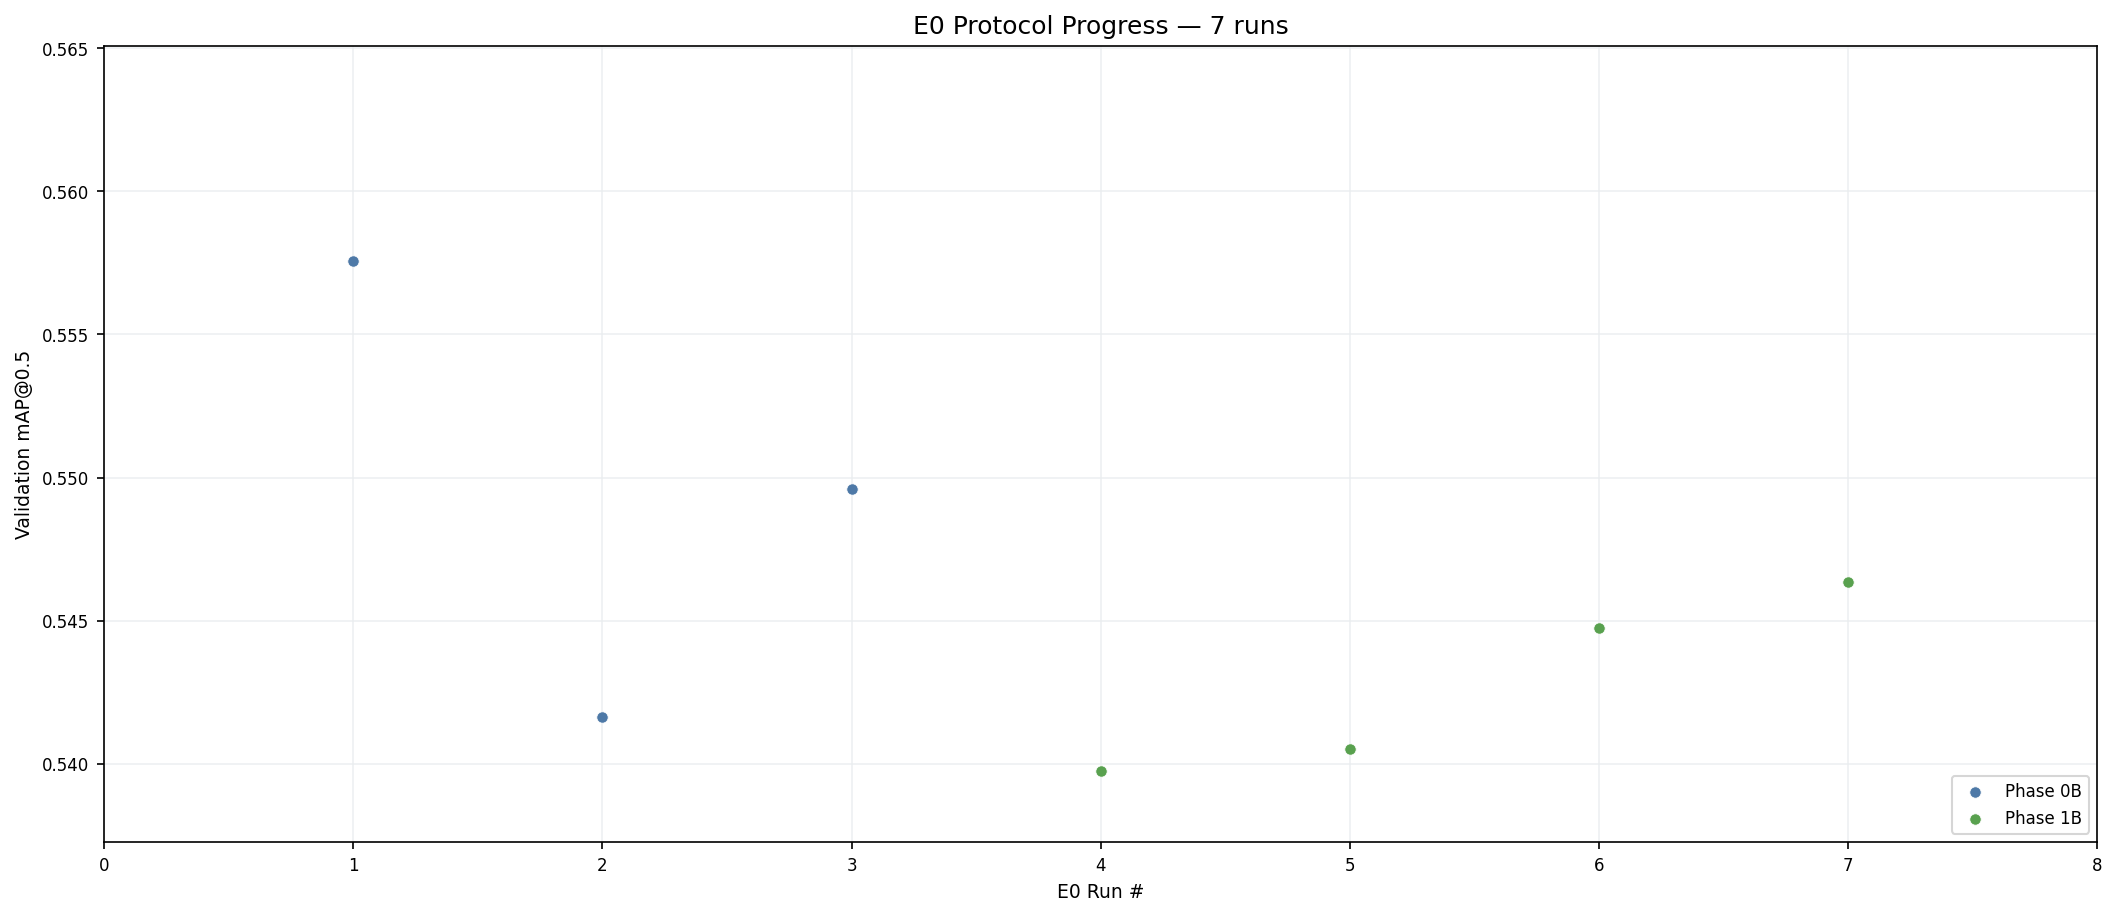
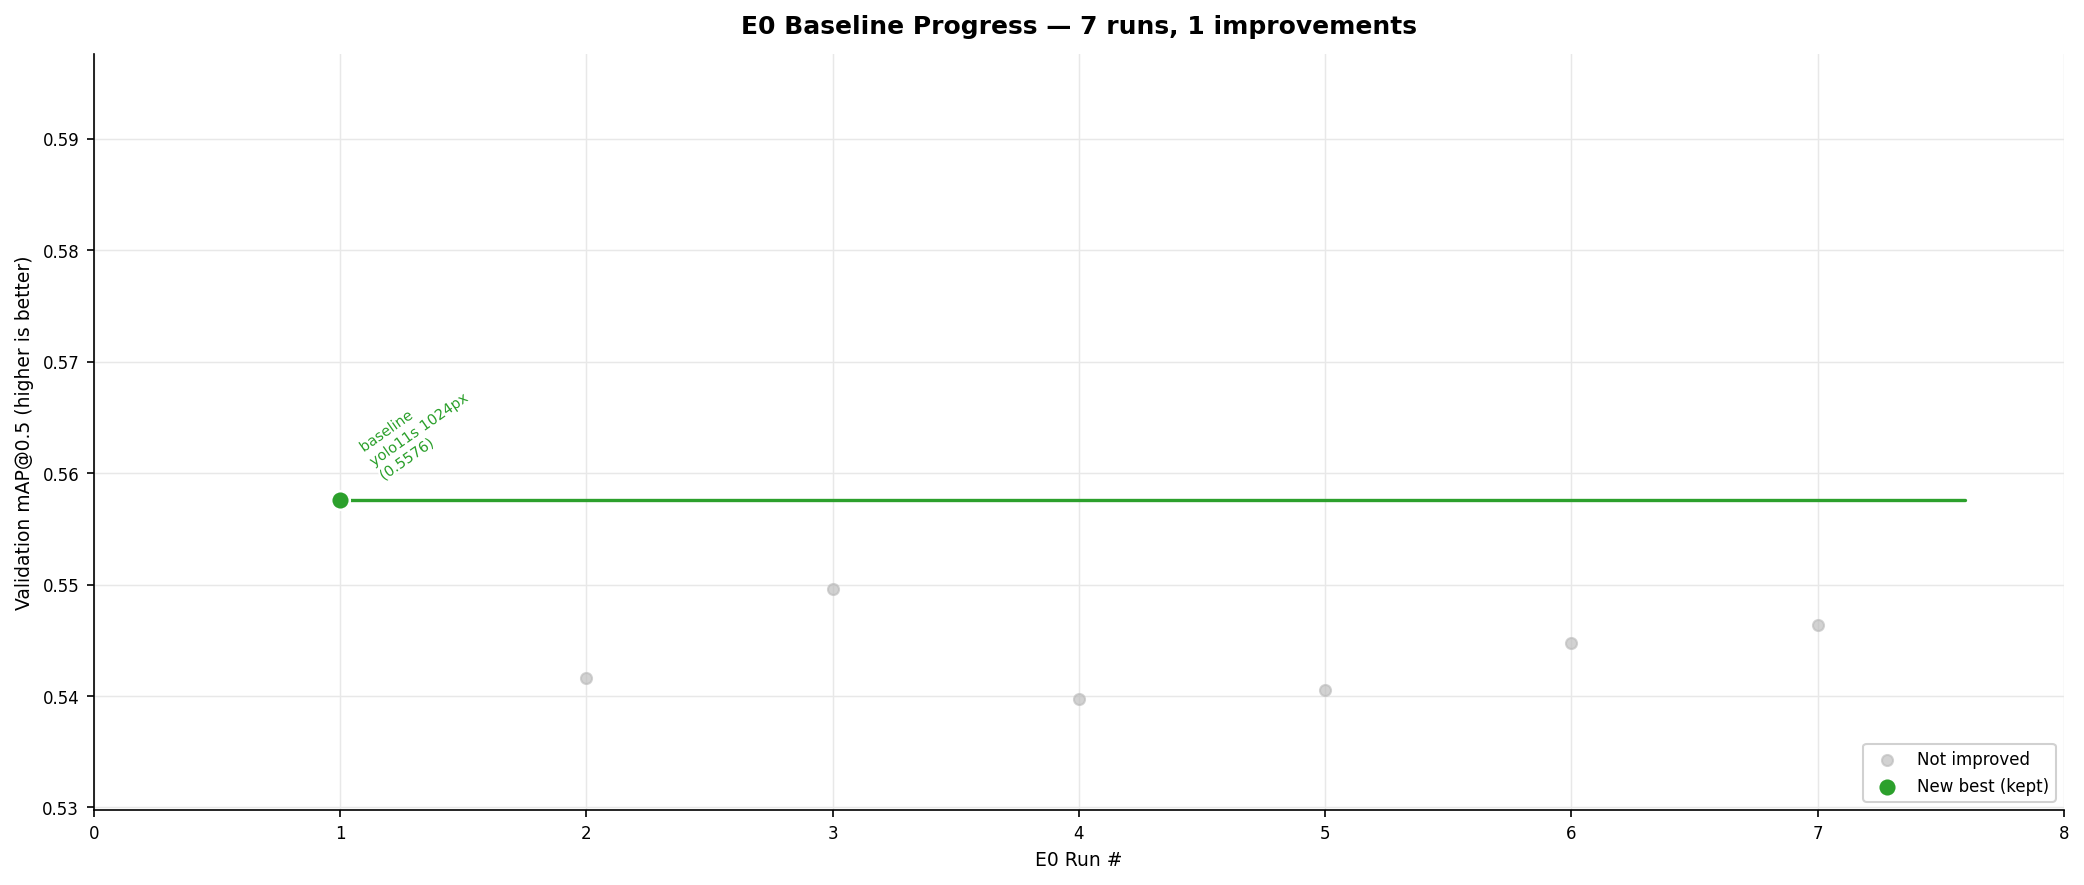
style: Karpathy-style e0_progress.png — gray dots + green step-line improvements

diff --git a/plot_e0_progress.py b/plot_e0_progress.py
@@ -1,23 +1,60 @@
-"""Generate e0_progress.png from E0 results CSV."""
+"""Generate e0_progress.png — Karpathy-style progress chart.
+
+Shows all E0 runs as gray dots, improvements (new running best) as green
+circles with a step-line and diagonal annotations explaining what changed.
+"""
 from __future__ import annotations
 
-import math
 from pathlib import Path
 
 import matplotlib
 matplotlib.use("Agg")
 import matplotlib.pyplot as plt
+import matplotlib.patheffects as pe
+import numpy as np
 import pandas as pd
 
 E0_CSV = Path("e0_results") / "results.csv"
 OUTPUT_PATH = Path("e0_progress.png")
 
-PHASE_COLORS = {
-    "0B": "#4e79a7",
-    "0C": "#f28e2b",
-    "1B": "#59a14f",
-    "2": "#e15759",
-}
+GREEN = "#2ca02c"
+GRAY  = "#bbbbbb"
+
+
+def _make_label(row: pd.Series, prev_best_row: pd.Series | None) -> str:
+    """Generate a short human-readable label describing what changed."""
+    model   = str(row.get("model", "")).replace(".pt", "")
+    imgsz   = int(row.get("imgsz", 640))
+    seed    = int(row.get("seed", 0))
+    phase   = str(row.get("phase", "?"))
+    aug     = str(row.get("aug", "medium"))
+    lr0     = float(row.get("lr0", 0.001))
+    batch   = int(row.get("batch", 16))
+
+    if prev_best_row is None:
+        return f"baseline\n{model} {imgsz}px"
+
+    parts = []
+    prev_model  = str(prev_best_row.get("model", "")).replace(".pt", "")
+    prev_imgsz  = int(prev_best_row.get("imgsz", 640))
+    prev_aug    = str(prev_best_row.get("aug", "medium"))
+    prev_lr0    = float(prev_best_row.get("lr0", 0.001))
+    prev_batch  = int(prev_best_row.get("batch", 16))
+
+    if model != prev_model:
+        parts.append(f"arch {prev_model}→{model}")
+    if imgsz != prev_imgsz:
+        parts.append(f"imgsz {prev_imgsz}→{imgsz}px")
+    if aug != prev_aug:
+        parts.append(f"aug {prev_aug}→{aug}")
+    if abs(lr0 - prev_lr0) > 1e-6:
+        parts.append(f"lr {prev_lr0}→{lr0}")
+    if batch != prev_batch:
+        parts.append(f"batch {prev_batch}→{batch}")
+    if not parts:
+        parts.append(f"seed {seed} (phase {phase})")
+
+    return "\n".join(parts)
 
 
 def main() -> None:
@@ -26,53 +63,116 @@ def main() -> None:
         return
 
     df = pd.read_csv(E0_CSV)
+    df = df[df["status"] == "ok"].copy() if "status" in df.columns else df.copy()
     if df.empty or "map50" not in df.columns:
         print("No completed E0 runs yet.")
         return
 
-    df["map50"] = pd.to_numeric(df["map50"], errors="coerce").fillna(0.0)
-    df["phase"] = df.get("phase", pd.Series(["?" * len(df)]))
-    df["run_id"] = df.get("run_id", pd.Series(range(len(df)))).astype(str)
+    df["map50"] = pd.to_numeric(df["map50"], errors="coerce")
+    df = df.dropna(subset=["map50"]).reset_index(drop=True)
     df["idx"] = range(1, len(df) + 1)
 
-    fig, ax = plt.subplots(figsize=(14, 6), constrained_layout=True)
+    # Compute running best and identify improvement points
+    running_best  = -np.inf
+    is_improvement = []
+    for v in df["map50"]:
+        if v > running_best:
+            running_best = v
+            is_improvement.append(True)
+        else:
+            is_improvement.append(False)
+    df["improvement"] = is_improvement
 
-    for phase, grp in df.groupby("phase"):
-        color = PHASE_COLORS.get(str(phase), "#aaaaaa")
-        ax.scatter(grp["idx"], grp["map50"], s=30, color=color,
-                   edgecolors="white", linewidths=0.4,
-                   label=f"Phase {phase}", zorder=3)
+    improved = df[df["improvement"]].copy()
+    n_total  = len(df)
+    n_kept   = len(improved)
 
-    # Best per arch annotation
-    if "arch" in df.columns:
-        best_per_arch = df.loc[df.groupby("arch")["map50"].idxmax()]
-        for _, row in best_per_arch.iterrows():
-            ax.annotate(
-                f"{row['arch']}\n{row['map50']:.3f}",
-                (row["idx"], row["map50"]),
-                textcoords="offset points", xytext=(4, 4),
-                ha="left", va="bottom", fontsize=6,
-                color="#333333", alpha=0.85, zorder=4,
-            )
+    # Build step-line: for each improvement, the line stays flat until next
+    step_x, step_y = [], []
+    for i, (_, row) in enumerate(improved.iterrows()):
+        x_next = improved.iloc[i + 1]["idx"] if i + 1 < len(improved) else n_total + 1
+        step_x += [row["idx"], x_next]
+        step_y += [row["map50"], row["map50"]]
+        if i > 0:
+            # Vertical connector from previous level
+            step_x.insert(-2, improved.iloc[i - 1]["idx"] if False else row["idx"])
+            step_y.insert(-2, step_y[-4] if len(step_y) >= 4 else row["map50"])
 
-    max_v = float(df["map50"].max()) if not df.empty else 0.6
-    min_v = float(df["map50"].min()) if not df.empty else 0.0
-    span = max(max_v - min_v, 0.05)
+    # Rebuild step-line cleanly
+    sx, sy = [], []
+    prev_y = None
+    for _, row in improved.iterrows():
+        if prev_y is not None:
+            sx.append(row["idx"])
+            sy.append(prev_y)
+        sx.append(row["idx"])
+        sy.append(row["map50"])
+        prev_y = row["map50"]
+    # Extend flat line to end
+    if sx:
+        sx.append(n_total + 0.6)
+        sy.append(sy[-1])
 
-    ax.set_title(f"E0 Protocol Progress — {len(df)} runs", fontsize=12)
+    # ── Plot ─────────────────────────────────────────────────────────────────
+    fig, ax = plt.subplots(figsize=(14, 6))
+    fig.patch.set_facecolor("white")
+    ax.set_facecolor("white")
+
+    # All runs — gray dots
+    ax.scatter(df[~df["improvement"]]["idx"],
+               df[~df["improvement"]]["map50"],
+               s=28, color=GRAY, alpha=0.65, zorder=2, label="Not improved")
+
+    # Step-line
+    if sx:
+        ax.plot(sx, sy, color=GREEN, linewidth=1.6, zorder=3, solid_capstyle="round")
+
+    # Improvement dots
+    ax.scatter(improved["idx"], improved["map50"],
+               s=80, color=GREEN, edgecolors="white", linewidths=1.2,
+               zorder=4, label="New best (kept)")
+
+    # Diagonal annotations
+    prev_best_row = None
+    for _, row in improved.iterrows():
+        label = _make_label(row, prev_best_row)
+        prev_best_row = row
+
+        txt = ax.annotate(
+            f"{label}\n({row['map50']:.4f})",
+            xy=(row["idx"], row["map50"]),
+            xytext=(8, 8), textcoords="offset points",
+            fontsize=7, color=GREEN, va="bottom", ha="left",
+            rotation=35,
+            path_effects=[pe.withStroke(linewidth=2, foreground="white")],
+            zorder=5,
+        )
+
+    # Axes styling
+    all_vals = df["map50"].values
+    lo = max(0.0, float(all_vals.min()) - 0.01)
+    hi = min(1.0, float(all_vals.max()) + 0.04)
+    ax.set_ylim(lo, hi)
+    ax.set_xlim(0, n_total + 1)
+
+    ax.set_title(
+        f"E0 Baseline Progress — {n_total} runs, {n_kept} improvements",
+        fontsize=12, fontweight="bold", pad=10,
+    )
     ax.set_xlabel("E0 Run #", fontsize=9)
-    ax.set_ylabel("Validation mAP@0.5", fontsize=9)
-    ax.set_ylim(max(0, min_v - span * 0.05), min(1.0, max_v + span * 0.15))
-    ax.set_xlim(0, len(df) + 1)
-    ax.grid(True, color="#e9ecef", linewidth=0.8, alpha=0.8)
-    ax.legend(loc="lower right", fontsize=8, frameon=True)
-    tick_step = max(1, math.ceil(len(df) / 15))
-    ax.set_xticks(range(0, len(df) + 2, tick_step))
+    ax.set_ylabel("Validation mAP@0.5 (higher is better)", fontsize=9)
+    ax.grid(True, color="#e8e8e8", linewidth=0.7, linestyle="-")
+    ax.set_axisbelow(True)
     ax.tick_params(axis="both", labelsize=8)
+    ax.spines[["top", "right"]].set_visible(False)
 
+    legend = ax.legend(loc="lower right", fontsize=8, frameon=True,
+                       framealpha=0.9, edgecolor="#cccccc")
+
+    fig.tight_layout()
     fig.savefig(OUTPUT_PATH, dpi=150, bbox_inches="tight")
     plt.close(fig)
-    print(f"Saved E0 plot to {OUTPUT_PATH}")
+    print(f"Saved {OUTPUT_PATH}  ({n_total} runs, {n_kept} improvements)")
 
 
 if __name__ == "__main__":
